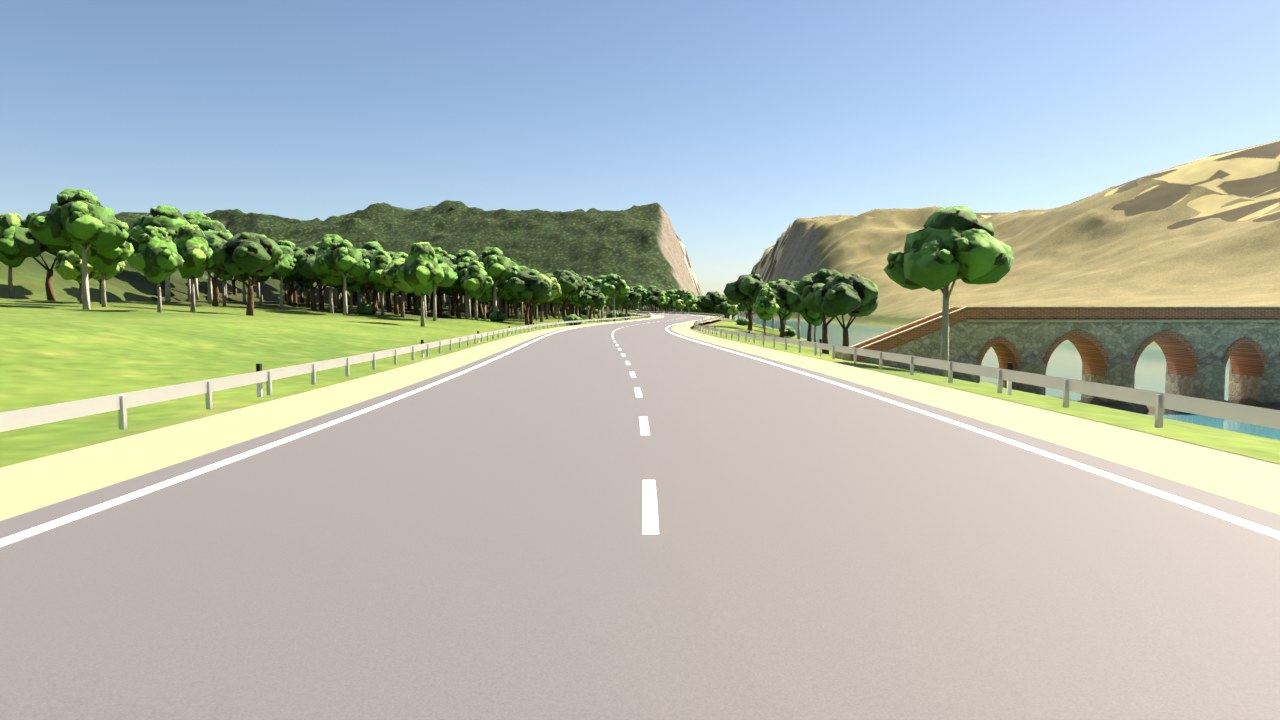
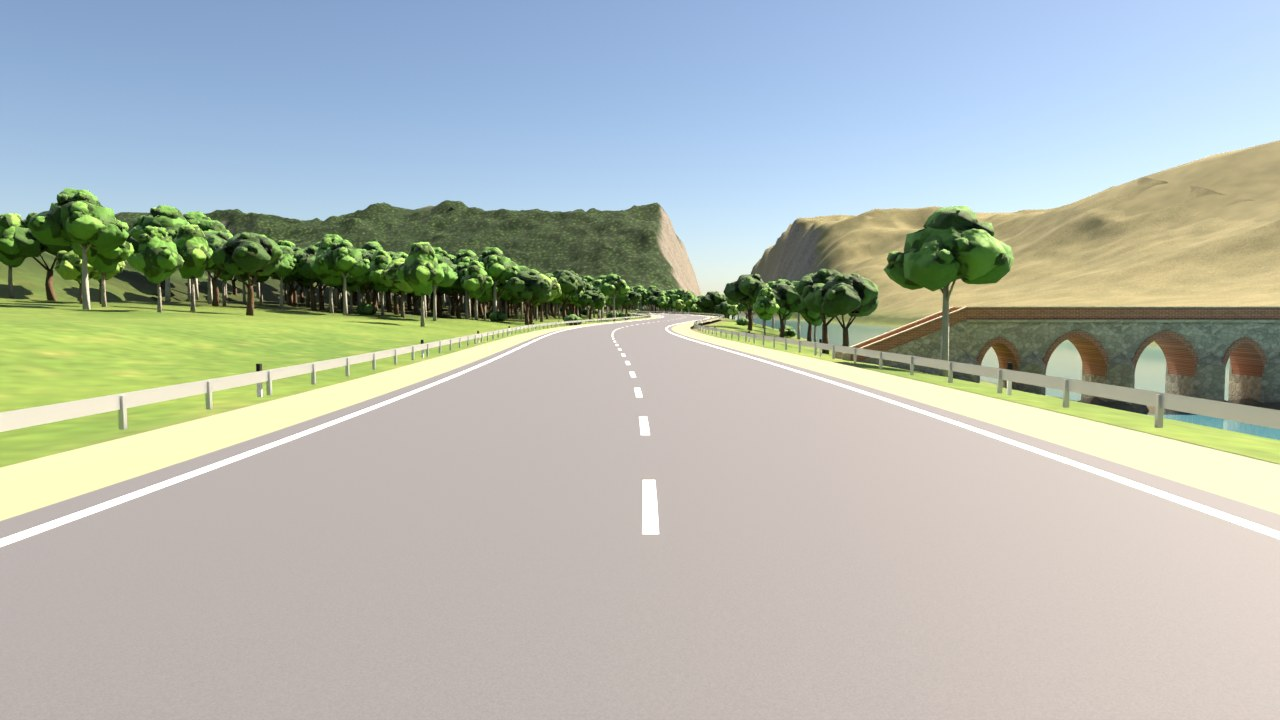
0.19.0 (versionCode 47): big Qarabağ map, Xudafərin bridges; mountain texture facets fixed, docs, strict suite 274/7969, APK
Claude-Session: https://claude.ai/code/session_01V7V6qQjtMAXxqZrhWHQaQm

Changed region(s): [[0.875, 0.1833, 1.0, 0.3361], [0.5938, 0.3361, 0.625, 0.3667], [0.5312, 0.3667, 0.5625, 0.3972]]

diff --git a/tools/blender/karabakh_terrain.py b/tools/blender/karabakh_terrain.py
@@ -595,7 +595,11 @@ def bake_to(ob, mat, res, name, occluders, ao_dist):
     node.image = img_a
     sc.cycles.samples = 48
     t0 = time.time()
-    bpy.ops.object.bake(type="AO", margin=4, use_clear=True, target="IMAGE_TEXTURES")
+    if ao_dist > 0.0:
+        bpy.ops.object.bake(type="AO", margin=4, use_clear=True, target="IMAGE_TEXTURES")
+    else:   # no AO (the 20 m mountain triangles baked as dark / light facets)
+        # 0.5: the tone of the inner bake's open ground (measured at the seam), so both textures meet
+        img_a.pixels.foreach_set(np.full(res * res * 4, 0.5, dtype=np.float32))
     print(f"BAKE {name} ao {time.time() - t0:.1f}s")
     for o in occluders:
         o.hide_render = True
@@ -770,6 +774,9 @@ def main():
     mountains_full.data = mountains.data.copy()
     coll.objects.link(mountains_full)
     decimate(mountains, 0.35)
+    for o in [mountains] + tiles + fars:   # decimation left hard facets (dark blotches on the far bank)
+        for poly in o.data.polygons:
+            poly.use_smooth = True
     print(f"MOUNTAINS {tri_count(mountains)} tris")
 
     # River ribbon ----------------------------------------------------------------------
@@ -800,7 +807,7 @@ def main():
 
     # Bake --------------------------------------------------------------------------------
     if BAKE:
-        bake_to(mountains_full, terrain_material("mount_mat", 0.15, (0.72, 0.3)), RES, "mountains_albedo", [], 30.0)
+        bake_to(mountains_full, terrain_material("mount_mat", 0.15, (0.72, 0.3)), RES, "mountains_albedo", [], 0.0)
         bpy.data.objects.remove(prox)
     bpy.data.objects.remove(mountains_full)
 

diff --git a/docs/TUNING.md b/docs/TUNING.md
@@ -355,20 +355,24 @@ Saved in `cup_progress` after every finished race; closing the app mid-race re-r
 - Touch: nitro takes the TURBO slot when Easy Drift hides TURBO (with manual gas: (-460, -250)), else (-300, -390) left of ITEM. Camera switch centre y = max(150 / 290 × s, top-right column bottom + 46 × s), synced on the column's resize.
 - Windows: sunset `windows` 0.25 (was 0.45). Baked props: lit_share 0.38 (was 0.55), only a pane (x 0.24–0.76, y 0.30–0.82 of a 1.8 × 3.6 m cell), energy × 0.85 (was 1.4). Skyscrapers: hash > 0.7 (was 0.6), pane x 0.22–0.78 / y 0.12–0.88 of the glass part, energy × 0.8 (was 1.2). House glass material energy `windows` × 0.9 (was 1.4).
 
-## Qarabağ map (0.18.0, `data/tracks/karabakh.json`, `KarabakhDecor`, `tools/blender/karabakh_*.py`)
-Owner's brief: famous places of Karabakh (Laçın, Şuşa, Xankəndi), forest all round, asphalt roads, everything modelled in Blender; environment first, landmarks one by one when the owner names them. Season: summer (owner's pick).
+## Qarabağ map (0.19.0 big map, `data/tracks/karabakh.json`, `KarabakhDecor`, `tools/blender/karabakh_*.py`)
+Owner's brief: famous places of Karabakh (Laçın, Şuşa, Xankəndi, the Xudafərin bridge), forest all round, asphalt roads, everything modelled in Blender; really big; landmarks one by one when the owner names them. Season: summer (owner's pick).
 | | value |
 |---|---|
-| lap | 1725 m, 2 lanes (`"lanes": 2` → road shader `lane_count`), width 15–16 m, run-off 3 m, no sea |
-| profile | y 0 (Laçın valley start straight) → climb, max grade 7.5 % → Şuşa plateau y 28 → descent towards Xankəndi → forest valley road by the Həkəri river |
-| bends | tightest r 13 m (Laçın turn); distant legs ≥ 73 m apart (tracker search window 45 m) |
-| autopilot lap | 58.9 s best (seafront 51 s) → `TrackList.LAP_SCALE` 1.15 |
+| lap | 4916 m, **one lap** (`TrackList.MAX_LAPS`), 2 lanes, width 15–16 m, run-off 3 m, no sea |
+| profile | Xankəndi y 12 (start) → climb, max grade 7.9 % → Şuşa plateau y 44 → Laçın y 20 → Həkəri valley → Araz bank y 2 → forest hills → Xankəndi |
+| bends | tightest r 18 m; distant legs ≥ 95 m apart (tracker search window 45 m) |
+| autopilot lap | 174.9 s (seafront 51 s) → `TrackList.LAP_SCALE` 3.4 |
 | barriers | `THEME_FOREST` style "guardrail": galvanised grey, white reflector line, 0.85 m |
-| landmark plots | `landmark_plots` in the JSON: 2 Laçın, 3 Şuşa, 2 Xankəndi, each 3 m behind the run-off (round 34 checks), kept free of forest |
+| zones | `zones` [id, x, z, radius]: khankendi 150, shusha 190, lachin 150, khudafarin 210 m - flattened 75 %, 90 % fewer trees, no canopy |
+| rivers | `rivers`: araz width 64, level −2.6; hakari width 22, `drop` 26 → −2.4; bed 1.4 m under the water; road ≥ 31 m from a bank |
+| bridges | `bridges`: khudafarin15 at x 80, khudafarin11 at x −170 (across the Araz, north-south) |
+| landmark plots | 16: Şuşa 6, Xankəndi 4, Laçın 4, Xudafərin 2; 3 m behind the run-off, free of forest |
 Pipeline (headless / background only):
 1. `godot --headless --path . -s tools/export_road_samples.gd -- karabakh` → `tools/blender/out/karabakh_road.json` (the road is TrackPath's)
-2. `blender --background --factory-startup --python tools/blender/karabakh_flora.py -- --bake-res 2048 --tex-res 1024` → `assets/models/karabakh_flora/` (oriental beech, oak, Caucasian hornbeam, maple, Kochi pine, hazel bush, limestone rock, reflector post, LED highway lamp; near 300–1130 tris, far ~1/6)
-3. `blender --background --factory-startup --python tools/blender/karabakh_terrain.py` → `assets/models/karabakh/`: 54 near tiles (3 m grid, decimated 0.28 with the road band and tile borders protected, 77k tris) + far tiles (45k, from 240 m), mountain ring (16 m grid, 28k), river ribbon; `terrain_albedo.png` 2048² + `mountains_albedo.png` 1024² (colour × AO with tree proxies); `heights.bin` (3 m grid, `TrackBuilder.terrain_height`); `trees.json` (3917 trees / bushes / rocks: meadow strip along the road, closed forest 22–82 m from the run-off, beyond that the baked canopy on the hillsides)
-4. `blender --background --python tools/blender/karabakh_render.py` → review renders `docs/screenshots/0.18.0/` and the city card `assets/ui/cities/karabakh.jpg`
-After a rebuild: `godot --headless --import`, `python tools/blender/fix_imports.py assets/models/karabakh_flora` (terrain PNGs keep `compress/mode=2` + mipmaps in their .import).
+2. `blender --background --factory-startup --python tools/blender/karabakh_flora.py -- --bake-res 2048 --tex-res 1024` → `assets/models/karabakh_flora/`
+3. `blender --background --factory-startup --python tools/blender/karabakh_terrain.py` (~1 min) → `assets/models/karabakh/`: 221 near tiles (3 m grid over x −1200..1248, z −912..960; decimated 0.28, road band + borders protected, 326k tris) + far tiles (0.06, borders protected, 61k, from 240 m), mountain ring (20 m grid ±2300 / −2100..2220, 27k), `River_araz`, `River_hakari`; `terrain_albedo.png` + `mountains_albedo.png` 4096² (inner: colour × AO with tree proxies; ring: colour × flat 0.71 tone, no AO); `heights.bin`; `trees.json` (8229; step 7.5 m, band 78 m, canopy from 70 m)
+4. `blender --background --factory-startup --python tools/blender/karabakh_bridges.py -- --bake-res 4096 --tex-res 2048` (~5 min; `--layout-only` rewrites just `bridges.json`) → `assets/models/karabakh_bridges/` (kb_br_pier / arch_w 6.4 m / arch_n 4.8 m / ramp 9 m; kb_br11_arch 8 m / pier / ruin_a / ruin_b; deck 6.5 m and 6.9 m above the water)
+5. `blender --background --factory-startup --python tools/blender/karabakh_render.py [-- --only bridge,overview]` → `docs/screenshots/0.19.0/` and the city card
+After a rebuild: `godot --headless --import`, `python tools/blender/fix_imports.py assets/models/karabakh_flora` / `assets/models/karabakh_bridges` (terrain PNGs keep `compress/mode=2` + mipmaps in their .import).
 Ground stays ≥ 0.25 m under road and verges, the chase camera clears every bank (round 34). Night: LED lamps every 46 m (alternate sides) with light pools under the heads; reflector posts every 25 m (both glow, `PropKit.PROP_GLOW` "lamps").

diff --git a/docs/STATUS.md b/docs/STATUS.md
@@ -1,6 +1,19 @@
 # Status, verification evidence and known issues
 
-Date: 2026-11-10 · Build: 0.18.0 · Engine: Godot 4.4.1-stable
+Date: 2026-11-10 · Build: 0.19.0 · Engine: Godot 4.4.1-stable
+
+## Update 0.19.0 (versionCode 47) — the big Qarabağ map, the Xudafərin bridges
+- **Owner's brief:** "make this map really big - this matters most": the main parts of Laçın, Şuşa and Xankəndi, and the Xudafərin bridge. This release is the big environment and both bridges; the town buildings follow when the owner names them (plots are reserved).
+- **Route** (`data/tracks/karabakh.json` version 2, **4916 m**, was 1725 m; one lap): Xankəndi (north-east, y 12, start) → climb (max grade 7.9 %) to the Şuşa plateau (y 44) → descent west to Laçın on the Həkəri (y 20) → south down the Həkəri valley → east along the Araz bank (y 2) past both bridges → north through forest hills back to Xankəndi. Tightest bend r 18 m, distant legs ≥ 95 m apart, 12 checkpoints.
+- **One lap rule:** `TrackList.MAX_LAPS` (karabakh 1); `RaceManager` clamps every mode, the daily challenge and the lap selector follow it. Autopilot lap 174.9 s → `LAP_SCALE` 3.4 (daily time goal 167–187 s).
+- **Terrain** (Blender, `karabakh_terrain.py`): inner 3 m grid 2448 × 1872 m in 221 near / far tile pairs (326k / 61k tris; near tiles end at 240 m), mountain ring 4.6 × 4.3 km (27k tris), both textures 4096². `zones` in the JSON (Xankəndi, Şuşa, Laçın, Xudafərin) are open, nearly level ground with few trees; the Şuşa plateau is a rock table over the Daşaltı gorge (limestone cliff); `rivers`: the Araz (64 m wide, level −2.6) and the Həkəri (22 m, falls 26 → −2.4 into the Araz) as carved beds + water ribbons `River_<id>`; the far bank of the Araz is dry steppe hills. Forest: 8229 trees / bushes / rocks (was 3917).
+- **Xudafərin bridges** (Blender, `karabakh_bridges.py` → `assets/models/karabakh_bridges/`, 8 modules, 2048² atlas; layout `assets/models/karabakh/bridges.json`, 48 instances, ~14k tris near for both): the 15-span bridge (river-stone piers on rocks with triangular cutwaters upstream / round downstream, pointed baked-brick arches of two widths, brick parapets, sloping approaches; 104 m with ramps) starts 6 m behind the run-off at x 80; the 11-span "Sınıq körpü" (cut stone; three middle spans stand, eight piers are ruins) 250 m upstream at x −170. Game-scaled (real: ~200 m and ~130 m, 800 m apart). Scenery only: no collision, not driven over.
+- **Landmark plots:** 16 reserved (Şuşa 6, Xankəndi 4, Laçın 4, Xudafərin 2), 3 m behind the run-off, free of forest. Nothing is built on them yet.
+- Review renders: `docs/screenshots/0.19.0/` (8 road views, overview, Araz bank, Şuşa over the gorge, both bridges); new city card.
+- Fixed on the way: the mountain texture's AO baked the 20 m triangles as dark / light facets (seen on the Araz far bank) - the ring now takes a flat tone matched to the inner bake at the seam; cliffs come from the height-grid slope instead of face normals.
+- Tests: round 35 (zones in trip order and heights, rivers beside the road / beds under water, bridge counts and clearance, one lap everywhere); round 34 limits updated for the big map. Strict suite (after the final terrain bake): **274 methods, 7969 checks, 0 failures, 0 script errors**. Headless Qarabağ races day / sunset / night: finished (autopilot 174.9 s); chaos run: finished, 0 stuck events > 1 s, no respawn.
+- Build: `_builds/YaskaRacing-0.19.0-v47-debug.apk`, 340.6 MB (0.18.0: 312.4 MB), `az.bakuturbo.game` versionCode 47, signed with the usual key (SHA-256 726cd353…6e25d9). Not tested on a phone.
+- Not measured / weak points: phone FPS (8229 forest instances, 221 terrain tiles, two 4096² terrain textures - heavier than 0.18.0); The towns are still empty meadows with plots. Water is a flat ribbon (no flow). In-game look checked by Blender renders only (owner: no Godot window).
 
 ## Update 0.18.0 (versionCode 46) — Qarabağ map: environment (landmarks follow one by one)
 - **Owner's brief:** a new map "Qarabağ" with the famous places of Karabakh, above all Laçın, Şuşa and Xankəndi; forest all round, asphalt roads, realistic models, everything modelled in Blender. Environment first; the owner names the landmarks one by one. Summer forest (owner's pick). Visual checks by Blender renders only (owner: no Godot window).

diff --git a/CLAUDE.md b/CLAUDE.md
@@ -16,7 +16,7 @@ Həmişə Azərbaycan dilində cavab ver.
 2. UI oyun stilində, sadə, vizual, az mətnli — kiçik uşaq üçün.
 3. Əvvəl test et, ekran görüntülərini tənqidi yoxla, yalnız sonra APK çıxar.
 4. Hər buraxılışda `export_presets.cfg`-də versionCode-u 1 artır; STATUS.md və TUNING.md-ni yenilə;
-   yeni test faylı `tests/test_roundN.gd` (sonuncu: round 34).
+   yeni test faylı `tests/test_roundN.gd` (sonuncu: round 35).
 5. Dəyişiklikdən əvvəl backup (git commit və ya zip).
 6. Zəif yerləri dürüst de; ölçülməyəni ölçülmüş kimi göstərmə.
 7. Aqil bir neçə xüsusiyyəti **bir APK-da** almağı üstün tutur (hər addıma ayrı APK yox).
@@ -36,12 +36,12 @@ Həmişə Azərbaycan dilində cavab ver.
 - Hər Godot qaçışı `--headless` (sahib pəncərə görmək istəmir, ekrandan kənar pəncərə də olmaz). Avtopilotsuz debug yarışlarında `--fresh-profile`.
 - GitHub: `aqilmuraudov/yaska-racing` (köhnə `bakucitykart` yönləndirilir). Push yalnız sahib istəyəndə.
 
-## Vəziyyət (0.18.0, versionCode 46)
+## Vəziyyət (0.19.0, versionCode 47)
 Hazır: menyu, mağaza, uşaq avto-idarəsi, Bakı Kuboku, Rekord+ghost, gündəlik tapşırıq, gündüz/gün batımı/gecə,
 4 şəhər (Dəniz sahili, Göydələnlər, İçərişəhər, Qarabağ), finiş replay-i, ilk dərs, stiker albomu, rəqib portretləri,
 gecə işıqları (saxta, real işıq yox), kontakt kölgə xəritəsi (AoMap), kart konturu,
 7 maşın + sürücünün hamısı, 3 şəhərin binaları və abidələri ("mini Bakı": Şirvanşahlar sarayı, Cümə, Sınıqqala, karvansara, Filarmoniya, Bələdiyyə, İsmailiyyə, Fəvvarələr meydanı, Nizami muzeyi, Nizami küçəsinin evləri daxil) Blender modelidir (`tools/blender/`, ümumi `kart_common.py`).
-Qarabağ xəritəsi (0.18.0): dağ yolu Laçın → Şuşa yaylası → Xankəndi, relyef/meşə/lampalar tam Blender-də
+Qarabağ xəritəsi (0.19.0, böyük): 4,9 km bir dövrə, Xankəndi → Şuşa yaylası → Laçın → Həkəri → Araz sahili (Xudafərin körpüləri: 15 və 11 aşırımlı, `karabakh_bridges.py`) → Xankəndi; relyef/meşə/lampalar/körpülər tam Blender-də
 (`tools/blender/karabakh_*.py`, ardıcıllıq TUNING.md-də). Landşaftları Aqil bir-bir deyir; yerləri `landmark_plots`-da ayrılıb.
 Vizual yoxlama yalnız Blender render ilə (Godot pəncərəsi yox).
 Əvvəlki iş GPU-suz bulud mühitində aparılıb — **heç bir rəqəm real telefonda ölçülməyib.**
